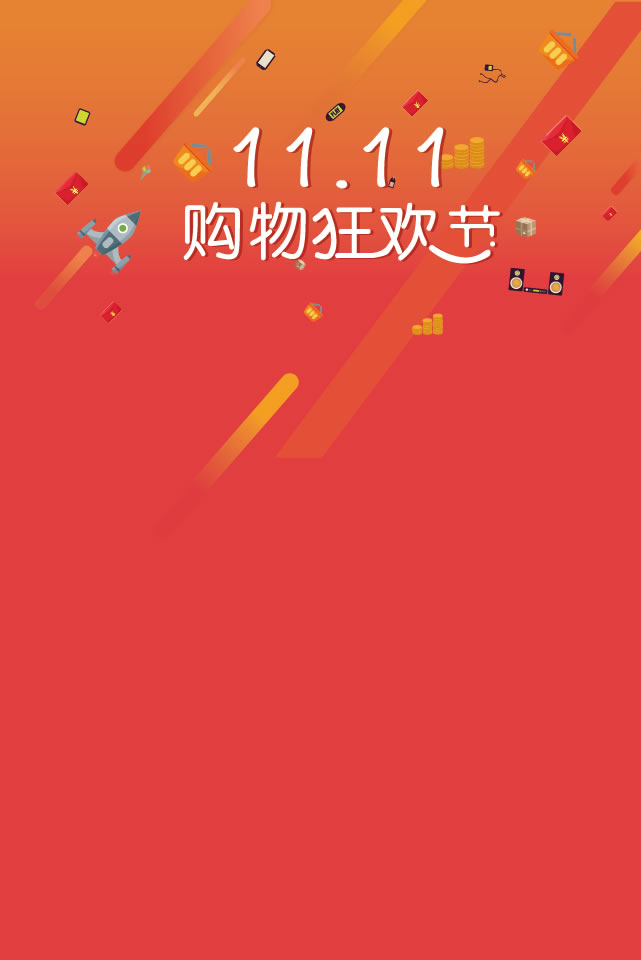
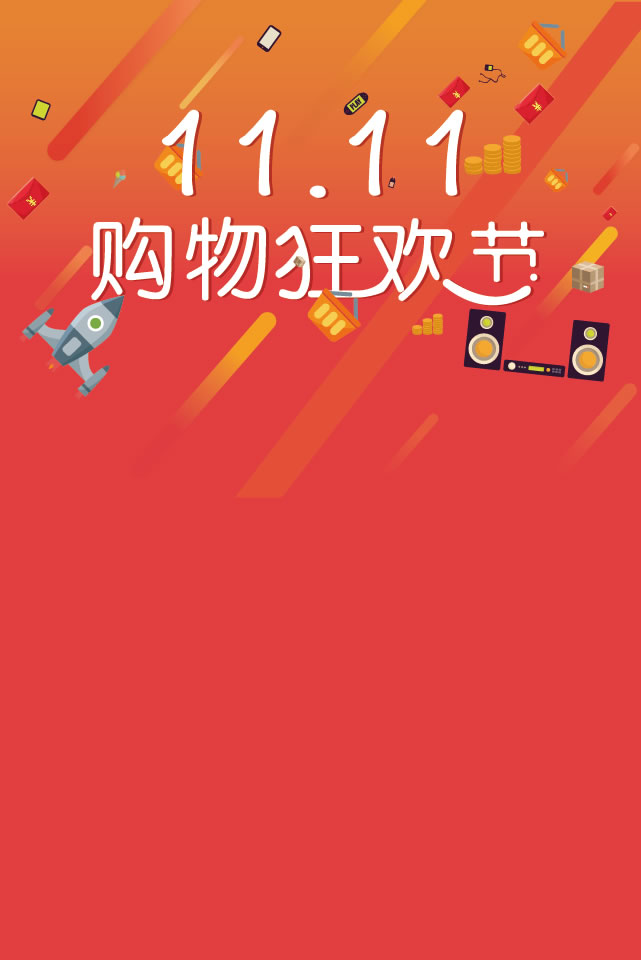
modify poster

diff --git a/index.html b/index.html
@@ -44,8 +44,8 @@
     <main class="site-main">
         <div class="container">
             <div class="list-group">
-                <a href="http://xunqilong.com/poster/new_year/" class="list-group-item" target="_blank">新年</a>
-                <a href="#" class="list-group-item" target="_blank">双十一A</a>
+                <a href="new_year/index.html" class="list-group-item" target="_blank">新年</a>
+                <a href="singles_day_a/index.html" class="list-group-item" target="_blank">双十一A</a>
                 <a href="#" class="list-group-item" target="_blank">双十一B</a>
             </div>
         </div>

diff --git a/singles_day_a/index.html b/singles_day_a/index.html
@@ -73,7 +73,7 @@
             }
 
             .poster {
-                padding-top: 50%;
+                padding-top: 66%;
                 overflow: hidden;
             }
 

diff --git a/README.md b/README.md
@@ -1,0 +1,3 @@
+#移动端海报分享静态页
+
+[demo](http://xunqilong.com/posters/)
